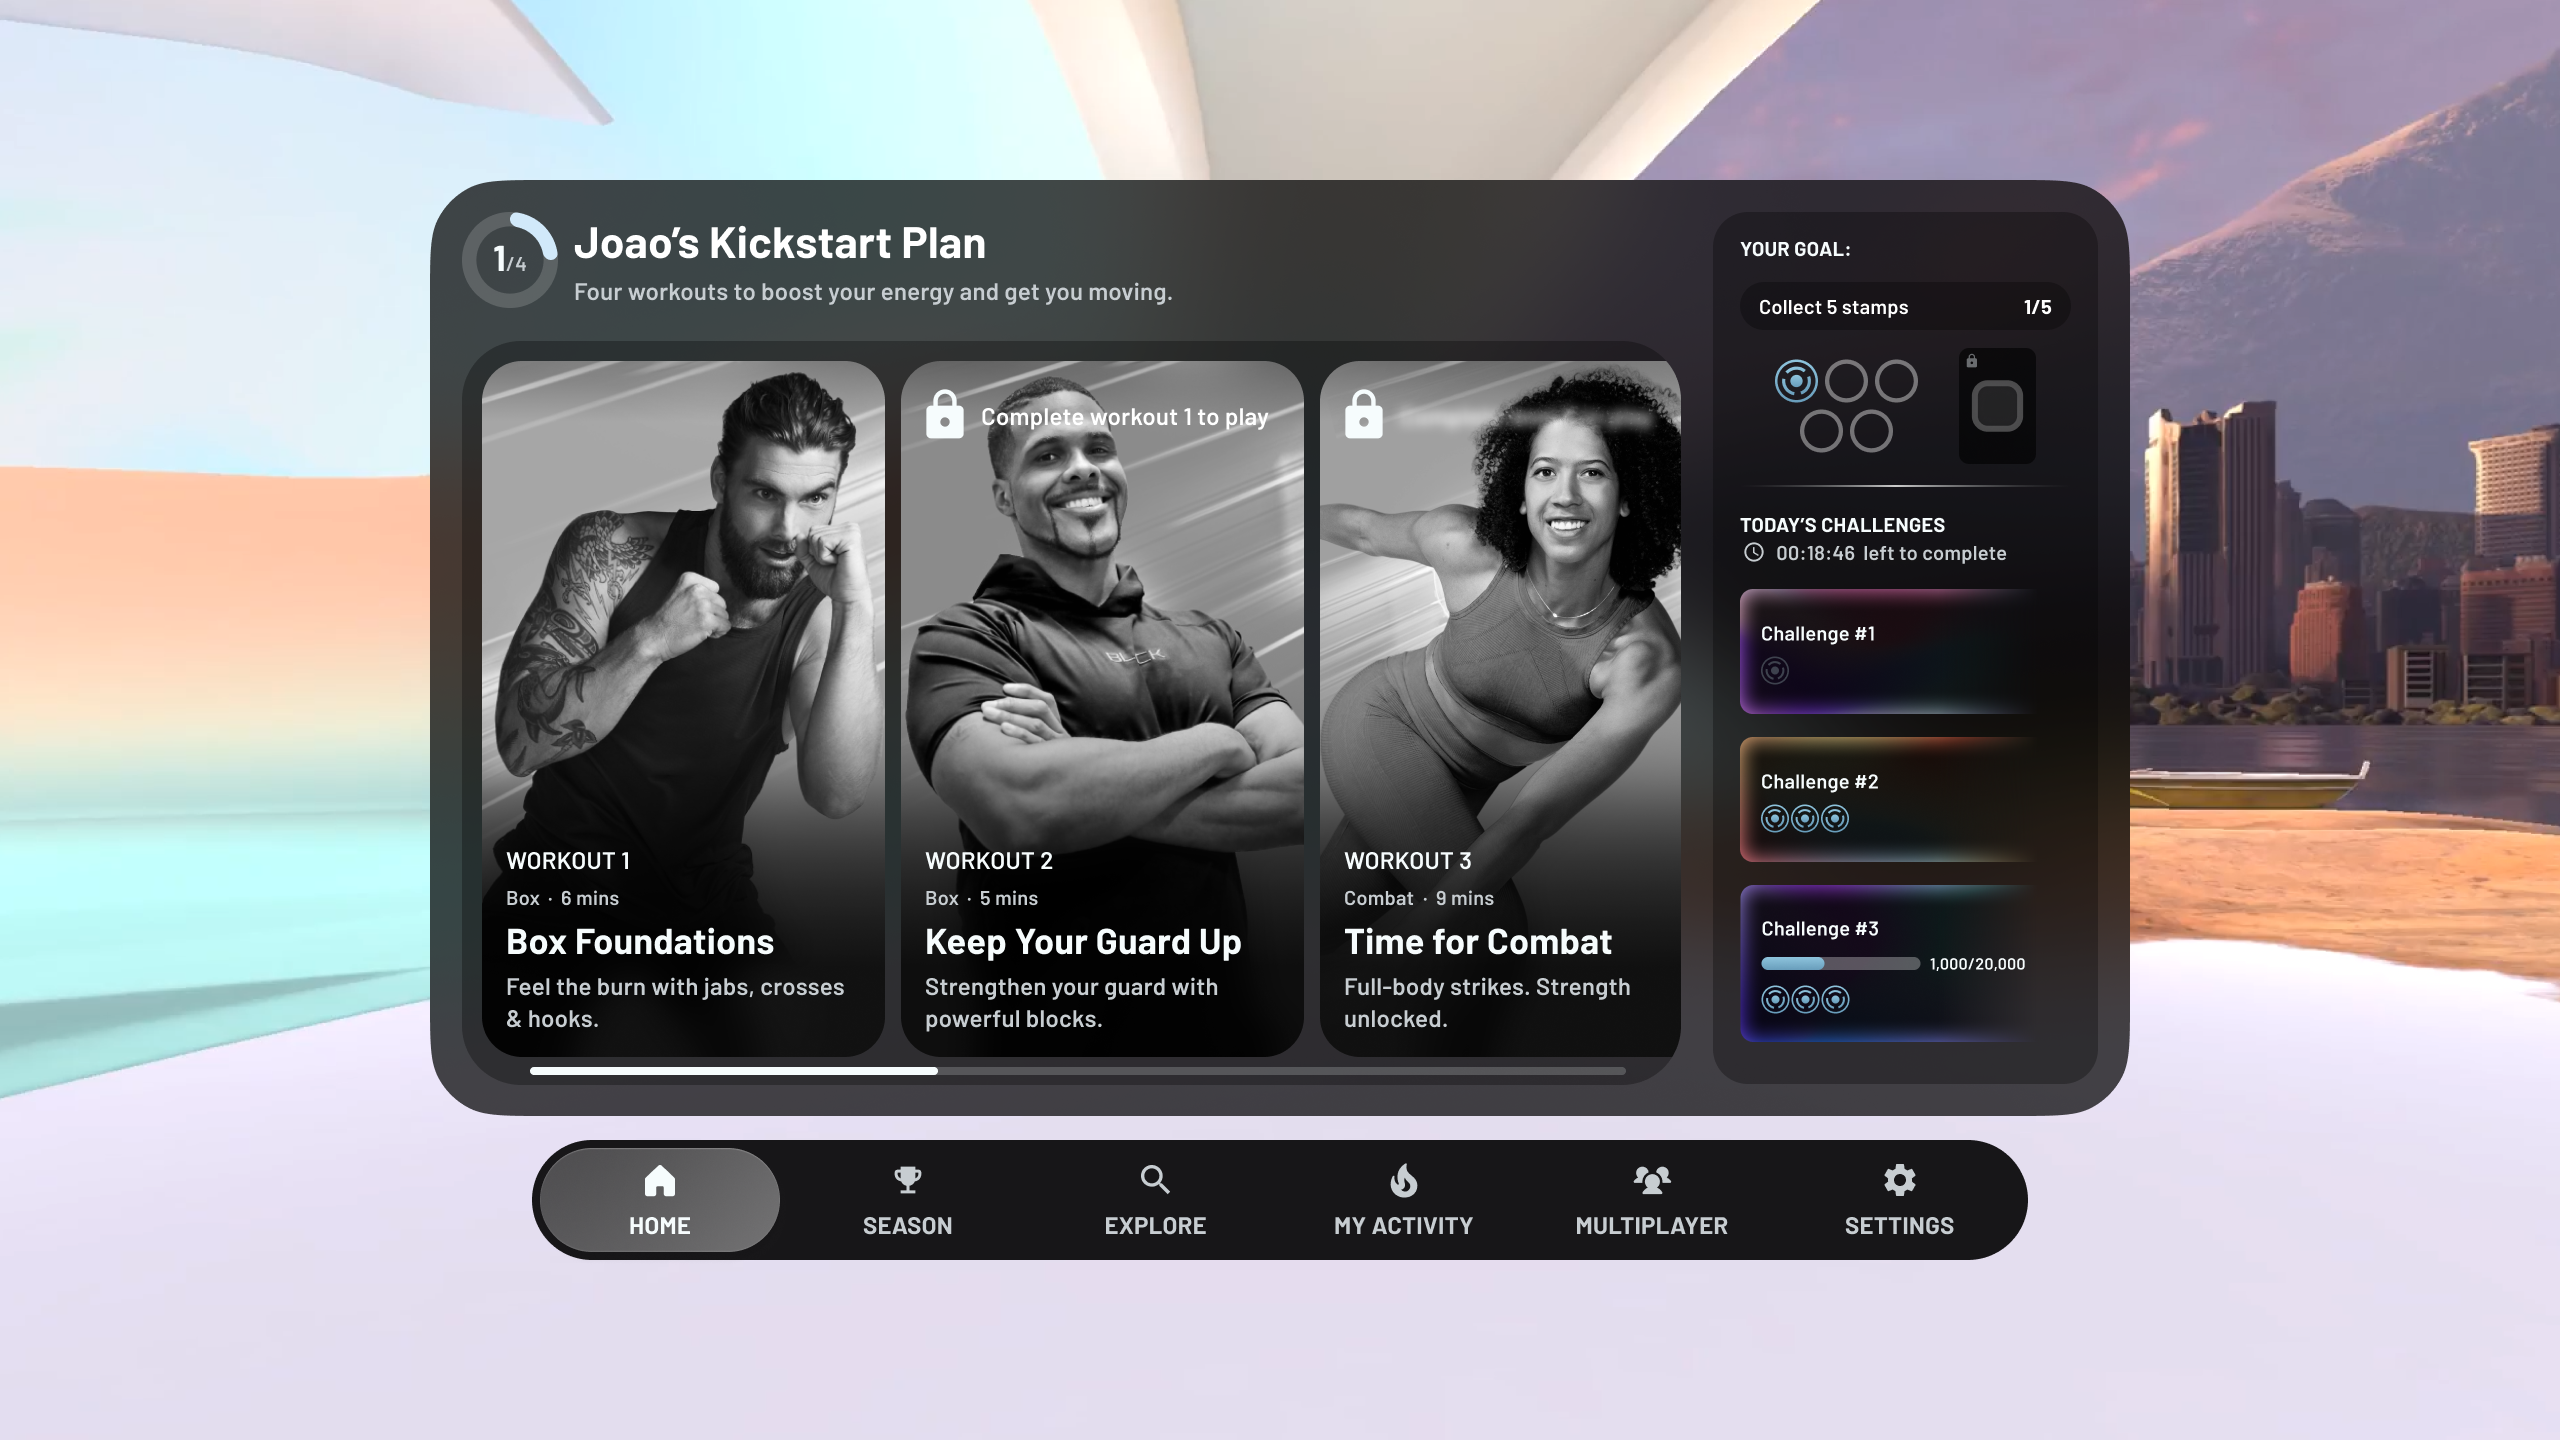
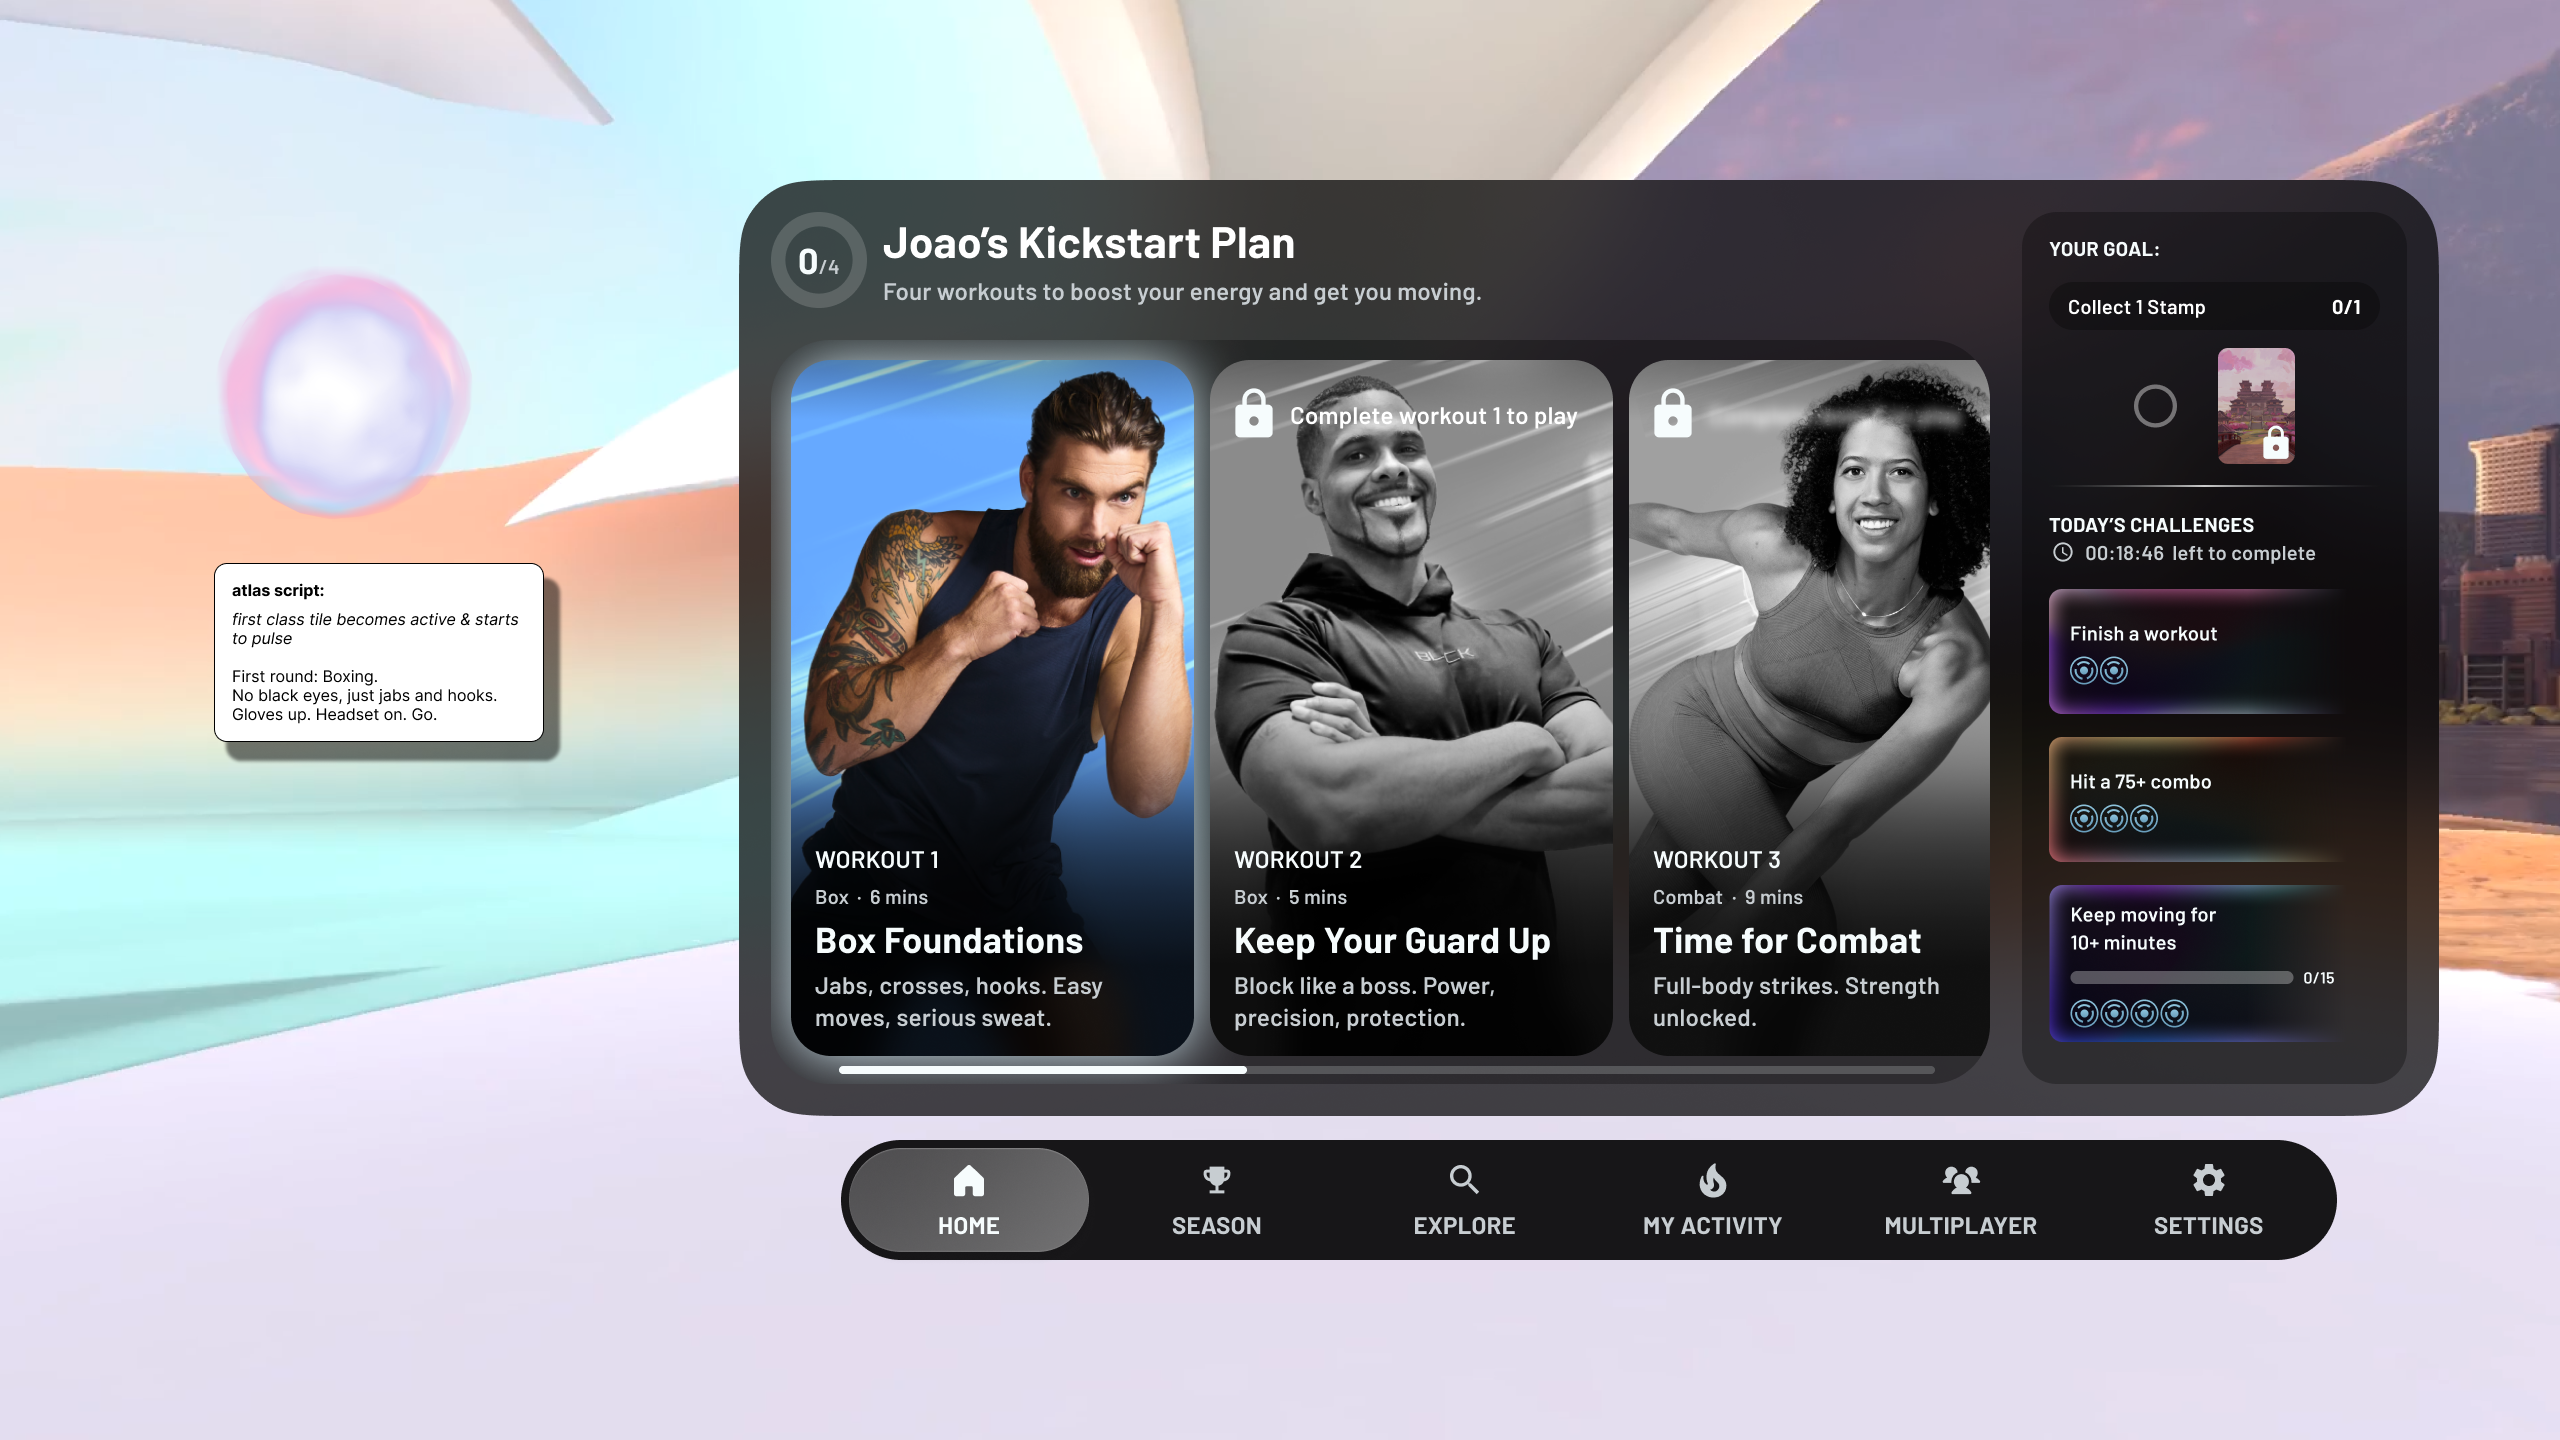
case study tweaks

diff --git a/data/casestudies/sidestep-jump-crouch.md b/data/casestudies/sidestep-jump-crouch.md
@@ -1,4 +1,4 @@
-[![Sidestep, Jump & Crouch - in-game header](./data/casestudies/images/sidestep-jump-crouch/header.png "bleed-xl")](./data/casestudies/images/sidestep-jump-crouch/header.png)
+[![](./data/casestudies/images/sidestep-jump-crouch/header.png "bleed-xl")](./data/casestudies/images/sidestep-jump-crouch/header.png)
 
 ## Overview
 
@@ -43,7 +43,7 @@ VR design has to be felt, not mocked up in Figma. Full-body workouts mean design
 
 We made over 50 prototypes in 3 months.
 
-[![A sample of early Unity prototypes](./data/casestudies/images/sidestep-jump-crouch/prototype-examples.png "wide")](./data/casestudies/images/sidestep-jump-crouch/prototype-examples.png)
+[![A sample of some of our prototypes](./data/casestudies/images/sidestep-jump-crouch/prototype-examples.png "wide")](./data/casestudies/images/sidestep-jump-crouch/prototype-examples.png)
 
 ---
 
@@ -51,7 +51,7 @@ We made over 50 prototypes in 3 months.
 
 I landed on a loop I called **Design, Discard, Deliver**, with feedback running through all of it.
 
-[![Design, Discard, Deliver loop diagram](./data/casestudies/images/sidestep-jump-crouch/design-discard-deliver.png "wide")](./data/casestudies/images/sidestep-jump-crouch/design-discard-deliver.png)
+[![Design, Discard, Deliver](./data/casestudies/images/sidestep-jump-crouch/design-discard-deliver.png "wide")](./data/casestudies/images/sidestep-jump-crouch/design-discard-deliver.png)
 
 - Design: get into VR fast. Prototype in Unity, feel it.
 - Discard: if it's not working, throw it away. Don't get attached.
@@ -73,7 +73,7 @@ Vertical motion fixed it. A bottom bar + top bar with high contrast, and a textu
 
 A burst that feels big but stays safe.
 
-[![A snapshot of the jump prototype set](./data/casestudies/images/sidestep-jump-crouch/jump-prototypes.png "wide")](./data/casestudies/images/sidestep-jump-crouch/jump-prototypes.png)
+[![Jump prototypes](./data/casestudies/images/sidestep-jump-crouch/jump-prototypes.png "wide")](./data/casestudies/images/sidestep-jump-crouch/jump-prototypes.png)
 
 ### Sidestep - rummaging through the trash
 
@@ -93,7 +93,7 @@ The feet idea actually came from an old Ultraleap project on touchless touchscre
 
 We also locked in the visual language here - blue bar on the left, white fade in the middle, glow on the outside. It became the lynchpin for the next move.
 
-[![A snapshot of the sidestep prototype set](./data/casestudies/images/sidestep-jump-crouch/sidestep-prototypes.png "wide")](./data/casestudies/images/sidestep-jump-crouch/sidestep-prototypes.png)
+[![Sidestep prototypes](./data/casestudies/images/sidestep-jump-crouch/sidestep-prototypes.png "wide")](./data/casestudies/images/sidestep-jump-crouch/sidestep-prototypes.png)
 
 ### Crouch - the beast
 
@@ -111,7 +111,7 @@ When we came back, the answer was already in the work we'd done. Jump + Sidestep
 
 It worked. You can chain Crouches together to make weaves. The bars become the transition. There's an almost-Matrix moment where you move past them. The simpler we made it, the better it got.
 
-[![A snapshot of the crouch prototype set](./data/casestudies/images/sidestep-jump-crouch/crouch-prototypes.png "wide")](./data/casestudies/images/sidestep-jump-crouch/crouch-prototypes.png)
+[![Crouch prototypes](./data/casestudies/images/sidestep-jump-crouch/crouch-prototypes.png "wide")](./data/casestudies/images/sidestep-jump-crouch/crouch-prototypes.png)
 
 ---
 
@@ -119,7 +119,7 @@ It worked. You can chain Crouches together to make weaves. The bars become the t
 
 Sidestep, Jump and Crouch shipped together into FitXR's Box and Combat workouts. Player response was positive across the board. My standout comment is: *"FINALLY, my pulse was RACING. LOVE IT."*
 
-[![A snapshot of player feedback post-launch](./data/casestudies/images/sidestep-jump-crouch/user-feedback.png "bleed-xl")](./data/casestudies/images/sidestep-jump-crouch/user-feedback.png)
+[![Player feedback post-launch](./data/casestudies/images/sidestep-jump-crouch/user-feedback.png "bleed-xl")](./data/casestudies/images/sidestep-jump-crouch/user-feedback.png)
 
 Three things I took away:
 

diff --git a/data/casestudies/early-user-experience.md b/data/casestudies/early-user-experience.md
@@ -1,4 +1,4 @@
-[![The kickstart plan: an onboarding path for new users](./data/casestudies/images/eux/popv2_plan.png "bleed-xl")](./data/casestudies/images/eux/popv2_plan.png)
+[![The kickstart plan: an onboarding path for new users](./data/casestudies/images/eux/popv2_kickstartplan.png "bleed-xl")](./data/casestudies/images/eux/popv2_kickstartplan.png)
 
 ## Overview
 